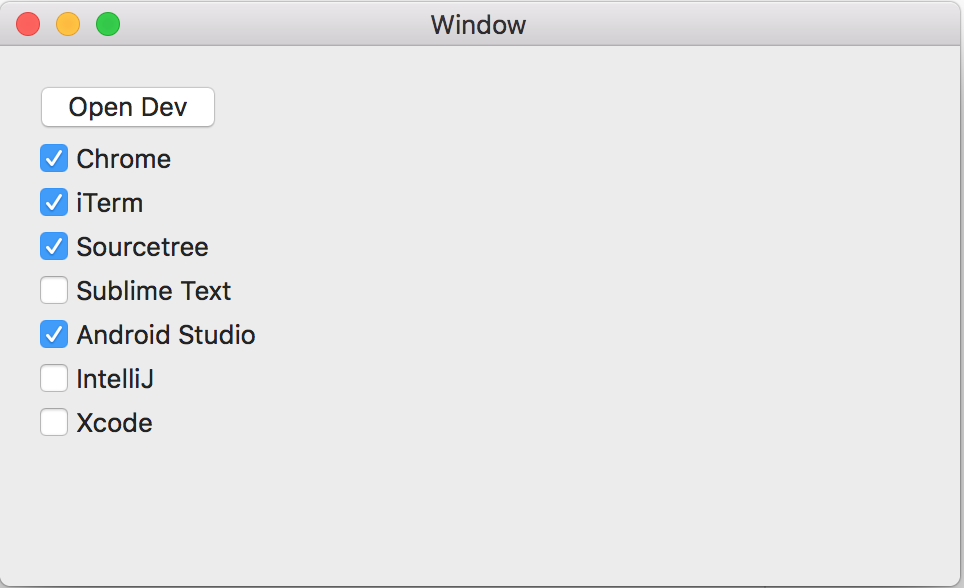
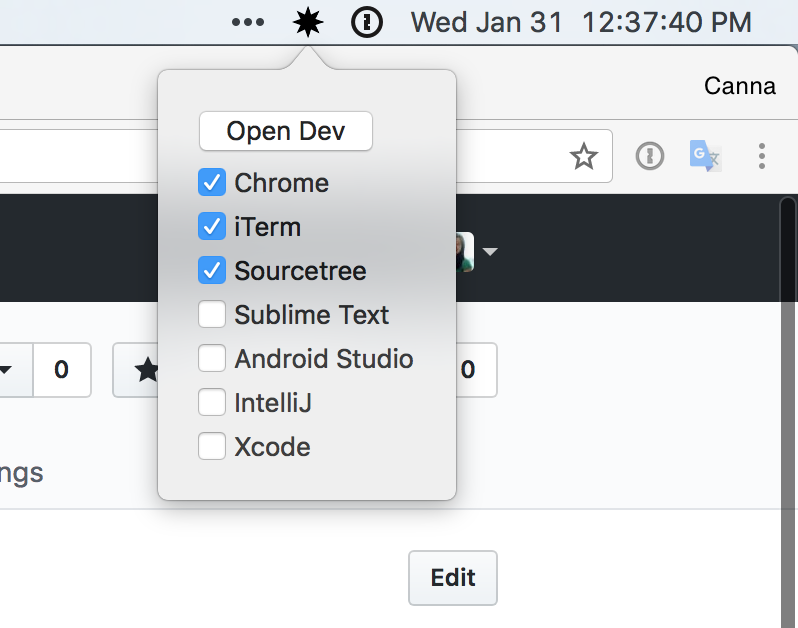
Make launcher a toolbar app

diff --git a/launcher/AppDelegate.swift b/launcher/AppDelegate.swift
@@ -11,16 +11,39 @@ import Cocoa
 @NSApplicationMain
 class AppDelegate: NSObject, NSApplicationDelegate {
 
-
+    let statusItem = NSStatusBar.system().statusItem(withLength: NSSquareStatusItemLength)
+    let popover = NSPopover()
 
     func applicationDidFinishLaunching(_ aNotification: Notification) {
-        // Insert code here to initialize your application
+        if let button = statusItem.button {
+            button.image = NSImage(named:"StatusBarButtonImage")
+            button.action = #selector(togglePopover(_:))
+        }
+        popover.contentViewController = ViewController.freshController()
+
+    }
+    
+    @objc func togglePopover(_ sender: Any?) {
+        if popover.isShown {
+            closePopover(sender: sender)
+        } else {
+            showPopover(sender: sender)
+        }
+    }
+    
+    func showPopover(sender: Any?) {
+        if let button = statusItem.button {
+            popover.show(relativeTo: button.bounds, of: button, preferredEdge: NSRectEdge.minY)
+        }
+    }
+    
+    func closePopover(sender: Any?) {
+        popover.performClose(sender)
     }
 
     func applicationWillTerminate(_ aNotification: Notification) {
         // Insert code here to tear down your application
     }
-
 
 }
 

diff --git a/launcher/ViewController.swift b/launcher/ViewController.swift
@@ -12,13 +12,10 @@ class ViewController: NSViewController {
 
     override func viewDidLoad() {
         super.viewDidLoad()
-
-        // Do any additional setup after loading the view.
     }
 
     override var representedObject: Any? {
         didSet {
-        // Update the view, if already loaded.
         }
     }
     
@@ -57,6 +54,17 @@ class ViewController: NSViewController {
         } catch {
             print("error")
         }
+    }
+}
+
+extension ViewController {
+    static func freshController() -> ViewController {
+        let storyboard = NSStoryboard(name: "Main", bundle: nil)
+        let identifier = "ViewController"
+        guard let viewcontroller = storyboard.instantiateController(withIdentifier: identifier) as? ViewController else {
+            fatalError("Why cant i find ViewController? - Check Main.storyboard")
+        }
+        return viewcontroller
     }
 }
 
